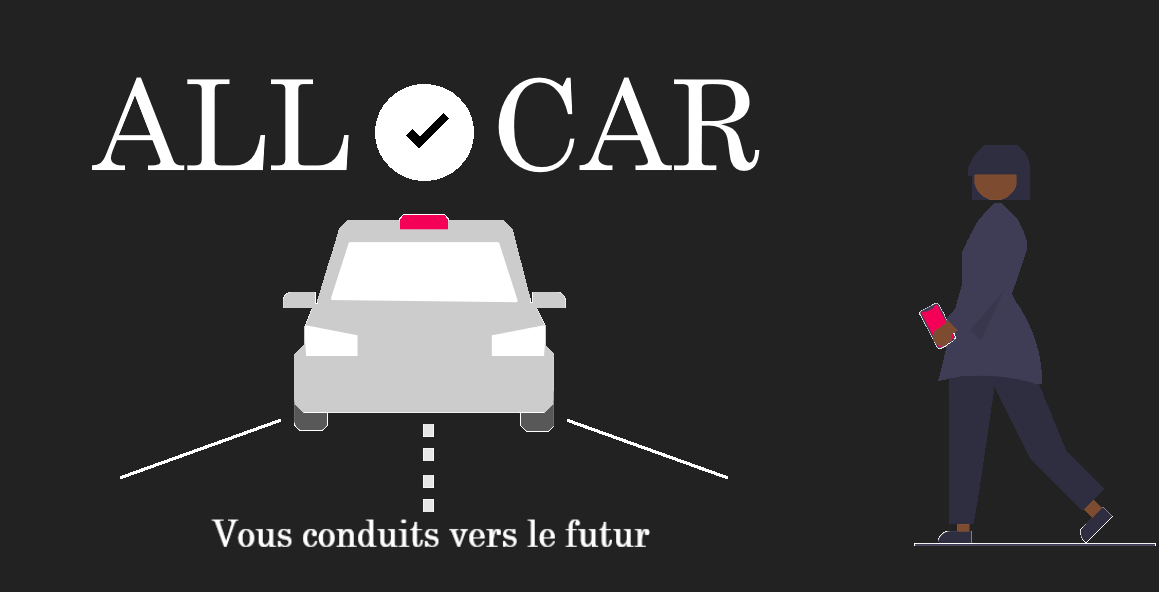
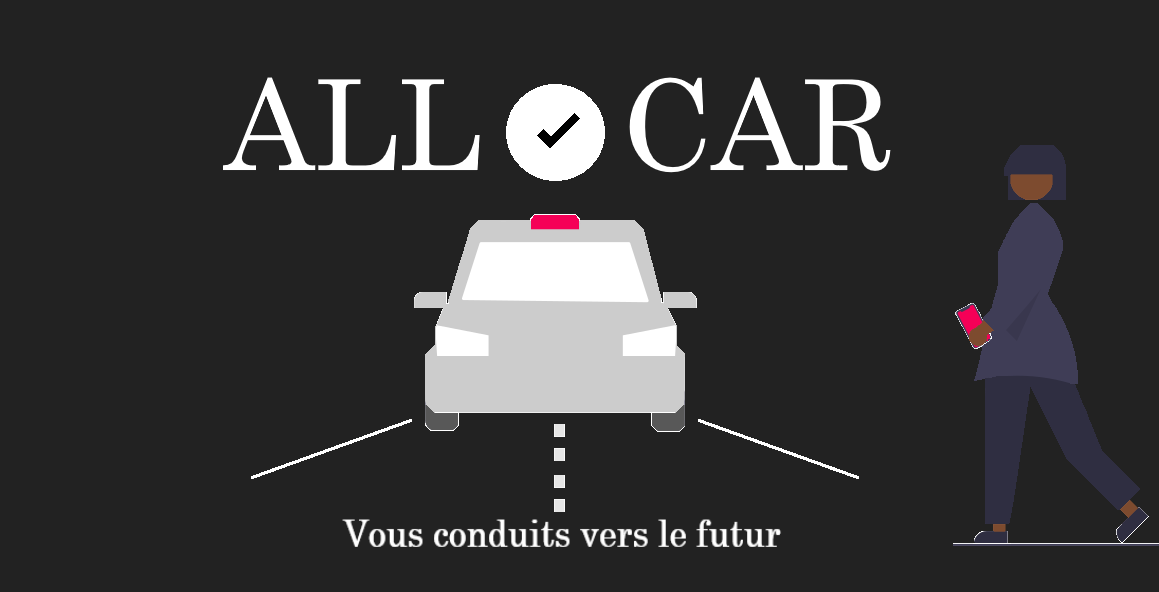
reussi

diff --git a/src/app/connexion/connexion.page.ts b/src/app/connexion/connexion.page.ts
@@ -5,6 +5,8 @@ import { AngularFirestore } from '@angular/fire/firestore';
 import { AngularFireAuth } from '@angular/fire/auth';
 import { Facebook, FacebookLoginResponse } from '@ionic-native/facebook/ngx';
 import * as firebase from 'firebase/app'; import 'firebase/auth';
+declare var FB: any;
+
 
 @Component({
   selector: 'app-connexion',
@@ -66,21 +68,11 @@ export class ConnexionPage implements OnInit {
 
   async loginWithFacebook() {
     try {
-      const accessToken = 'votre_jetoon_dacces_ici';
-      const response: FacebookLoginResponse = await this.fb.login(['public_profile', 'email']);
+      const response = await this.afAuth.signInWithPopup(new firebase.default.auth.FacebookAuthProvider());
 
-      if (response.authResponse) {
-        const credential = firebase.default.auth.FacebookAuthProvider.credential(response.authResponse.accessToken);
-        const result = await this.afAuth.signInWithCredential(credential);
-        const user = result.user;
-        this.firestore.doc('users/' + user!.uid).set({
-          author: user!.uid,
-          photoURL: user!.photoURL,
-          displayName: user!.displayName,
-          email: user!.email,
-          date: new Date().toISOString()
-        });
+      if (response.user) {
         console.log('Connecté avec Facebook !');
+        this.handleSuccessfulLogin(response.user);
       } else {
         console.log('Échec de la connexion Facebook.');
       }
@@ -89,40 +81,74 @@ export class ConnexionPage implements OnInit {
     }
   }
 
+  async handleSuccessfulLogin(user: firebase.default.User | null) {
+    try {
+      if (!user) {
+        throw new Error('Utilisateur non trouvé');
+      }
+
+      // Enregistrer les informations de l'utilisateur dans la base de données Firestore
+      await this.saveUserDataToFirestore(user);
+
+      console.log('Informations de l\'utilisateur enregistrées avec succès dans Firestore.');
+    } catch (error) {
+      console.error('Erreur lors de l\'enregistrement des informations de l\'utilisateur dans Firestore :', error);
+    }
+  }
+
+  async saveUserDataToFirestore(user: firebase.default.User) {
+    try {
+      // Enregistrer les informations de l'utilisateur dans Firestore
+      await this.firestore.doc(`users/${user.uid}`).set({
+        author: user.uid,
+        photoURL: user.photoURL,
+        displayName: user.displayName,
+        email: user.email,
+        date: new Date().toISOString()
+      });
+    } catch (error) {
+      throw error;
+    }
+  }
+
+
+
   async loginWithFacebook2() {
     try {
-      const response: FacebookLoginResponse = await this.fb.login(['public_profile', 'email']);
-  
-      if (response && response.authResponse) {
-        const credential = firebase.default.auth.FacebookAuthProvider.credential(response.authResponse.accessToken);
-        const fbUser = await this.afAuth.signInWithCredential(credential);
-  
-        if (fbUser && fbUser.user) {
-          // Vérifier si l'utilisateur existe dans Firestore
-          const userDoc = await this.firestore.collection('users').doc(fbUser.user.uid).get().toPromise();
-  
-          if (userDoc!.exists) {
-            console.log('Connecté avec Facebook !');
-            // L'utilisateur est enregistré dans Firestore, vous pouvez effectuer d'autres actions ici
-          } else {
-            // L'utilisateur n'existe pas dans Firestore, déconnectez-le et affichez un message d'erreur
-            console.log('Cet utilisateur n\'est pas enregistré.');
-            await this.afAuth.signOut();
-            // Afficher un message à l'utilisateur pour l'inviter à s'inscrire
-            // Par exemple, vous pouvez utiliser un service d'alerte ou un composant d'alerte Ionic
-            this.showErrorMessage('Veuillez vous inscrire pour accéder à la connexion.');
-          }
-        } else {
-          console.log('Erreur lors de l-authentification Facebook : Utilisateur non trouvé');
-        }
+      // Demander à l'utilisateur de se connecter avec Facebook
+      const response = await this.afAuth.signInWithPopup(new firebase.default.auth.FacebookAuthProvider());
+
+      // Vérifier si la connexion a réussi et si un utilisateur est renvoyé
+      if (response.user) {
+        // Utilisateur connecté avec succès, continuer avec les actions nécessaires
+        console.log('Connecté avec Facebook !');
+        await this.handleSuccessfulLogin2(response.user);
       } else {
-        console.log('Authentification Facebook échouée.');
+        // La connexion a échoué ou aucun utilisateur n'a été renvoyé
+        console.log('Échec de la connexion Facebook.');
       }
     } catch (error) {
       console.error('Erreur lors de la connexion Facebook :', error);
     }
   }
 
+  async handleSuccessfulLogin2(user: firebase.default.User) {
+    try {
+      // Vérifier si l'utilisateur existe déjà dans Firestore
+      const userDoc = await this.firestore.collection('users').doc(user.uid).get().toPromise();
+
+      if (userDoc?.exists) {
+        // L'utilisateur existe déjà dans Firestore, effectuer d'autres actions ici
+        console.log('Utilisateur déjà enregistré dans Firestore.');
+      } else {
+        // L'utilisateur n'existe pas dans Firestore, enregistrer les informations dans la base de données
+        await this.saveUserDataToFirestore(user);
+        console.log('Informations de l\'utilisateur enregistrées avec succès dans Firestore.');
+      }
+    } catch (error) {
+      console.error('Erreur lors de la gestion de la connexion réussie :', error);
+    }
+  }
   async signInWithGoogle() {
     try {
       const provider = new firebase.default.auth.GoogleAuthProvider();

diff --git a/src/app/location-et-vente/location-et-vente.page.html b/src/app/location-et-vente/location-et-vente.page.html
@@ -1,4 +1,4 @@
-<ion-header [translucent]="true">
+<ion-header [translucent]="false">
   <ion-toolbar color="dark">
     <ion-title class="ion-text-center">
       Achat/Location
@@ -8,7 +8,8 @@
 
 <ion-content>
     <h1>Bienvenue</h1>
-    <p> Vous vous trouvez dans le service de location et d'achat de véhicules de l'application AlloCars, votre partenaire de confiance pour trouver le véhicule de vos rêves parmi une sélection de qualité provenant de concessionnaires agréés.</p>
+    <p> Vous trouverez des véhicule parmi une sélection de qualité dans le service de location et d'achat provenant de concessionnaires agréés.</p>
+    <br>
     <ion-segment (ionChange)="segmentChanged($event)" value="Acheter un véhicule">
       <ion-segment-button value="Acheter un véhicule">
         <ion-label>Achat</ion-label>
@@ -45,7 +46,7 @@
         <ion-grid>
           <ion-row>
             <ion-col size="6">
-              <h2>marque :</h2>
+              <p>marque :</p>
               <ion-input class="font" type="text" [(ngModel)]="marque"></ion-input>
               <p>modele :</p>
               <ion-input type="text" [(ngModel)]="modele"></ion-input>
@@ -119,7 +120,7 @@
         <ion-grid>
           <ion-row>
             <ion-col size="6">
-              <h2>marque :</h2>
+              <p>marque :</p>
               <ion-input class="font" type="text" [(ngModel)]="marqueLoc"></ion-input>
               <p>modele :</p>
               <ion-input type="text" [(ngModel)]="modeleLoc"></ion-input>

diff --git a/src/index.html b/src/index.html
@@ -17,8 +17,28 @@
   <meta name="viewport" content="viewport-fit=cover, width=device-width, initial-scale=1.0, minimum-scale=1.0, maximum-scale=1.0, user-scalable=no" />
   <meta name="format-detection" content="telephone=no" />
   <meta name="msapplication-tap-highlight" content="no" />
+  <script>
+    window.fbAsyncInit = function() {
+      FB.init({
+        appId      : '587402599103990',
+        cookie     : true,
+        xfbml      : true,
+        version    : 'v12.0'
+      });
+        
+      FB.AppEvents.logPageView();   
+    };
+  
+    (function(d, s, id){
+      var js, fjs = d.getElementsByTagName(s)[0];
+      if (d.getElementById(id)) {return;}
+      js = d.createElement(s); js.id = id;
+      js.src = "https://connect.facebook.net/en_US/sdk.js";
+      fjs.parentNode.insertBefore(js, fjs);
+    }(document, 'script', 'facebook-jssdk'));
+  </script>
 
-  <link rel="icon" type="image/png" href="assets/icon/favicon.png" />
+  <link rel="icon" type="image/png" href="assets/icon/icon.png" />
 
   <!-- add to homescreen for ios -->
   <meta name="apple-mobile-web-app-capable" content="yes" />
@@ -26,7 +46,6 @@
 </head>
 
 <body>
-  <script src="cordova.js"></script>
   <app-root></app-root>
 </body>
 

diff --git a/src/app/phone-number/phone-number.page.html b/src/app/phone-number/phone-number.page.html
@@ -53,6 +53,7 @@
           <ion-button expand="full" color="dark" shape="round" (click)="sendVerificationCode()">
             recevoir le code d'inscription
           </ion-button>
+          <div id="recaptcha-container"></div>
         </ion-col>
       </ion-row>
 
@@ -62,13 +63,11 @@
             <ion-label class="label">Entrer le Code de vérification:</ion-label>
           </ion-col>
           <ion-col size="4">
-            <ion-input type="test" color="black" clearInput placeholder="Notez Ici!" class="input ion-padding-horizontal" clear-input="true" [(ngModel)]="verificationCode"></ion-input>
+            <ion-input type="test" color="black" clearInput class="input ion-padding-horizontal" clear-input="true" [(ngModel)]="verificationCode">Notez Ici!</ion-input>
           </ion-col> 
         </ion-item>
+        <ion-button expand="full" shape="round" color="success" (click)="verifyCode()">Vérifier le code d'inscription</ion-button>
       </ion-row>
-
-      <ion-button expand="full" shape="round" color="success" (click)="verifyCode()">Vérifier le code d'inscription</ion-button>
-      <div id="recaptcha-container"></div>
     </ion-grid>
     <br>
   </ion-card>

diff --git a/src/app/app.component.ts b/src/app/app.component.ts
@@ -38,7 +38,7 @@ export class AppComponent {
     if (this.connected) {
       this.afAuth.signOut().then(() => {
         // Rediriger vers la page de connexion une fois que l'utilisateur est déconnecté
-        this.router.navigateByUrl('/connexion');
+        this.router.navigateByUrl('connexion');
         this.menu.close();
       }).catch(error => {
         // Gérer les erreurs éventuelles ici
@@ -46,7 +46,9 @@ export class AppComponent {
       });
     }
   }
-  retour() {
+  closeMenu() {
+    this.menu.close(); // Ferme le menu
+  }  retour() {
     if (!this.connected) {
       this.menu.close();
       this.router.navigateByUrl('connexion');

diff --git a/src/app/location-et-vente/location-et-vente.page.scss b/src/app/location-et-vente/location-et-vente.page.scss
@@ -78,22 +78,23 @@
 }
 
 h1 {
+  font-family: auto;
   margin-bottom: -15px;    
   margin-top: 0px;    
   font-size: xx-large;    
   font-style: italic;    
   font-weight: 800;  
-  text-align: center;  
+  text-align: start;  
   padding: 9px;
 }
 
 p {
   margin: 1px 0 0;    
   padding: 9px;    
-  font-size: 18px;    
-  text-align: center;    
-  line-height: 1.13;    
+  font-size: 17px;    
+  text-align: start;    
+  line-height: 1.3;    
   word-spacing: -2.4px;    
-  font-weight: 700;    
+  font-weight: 200;    
   font-style: oblique;
 }

diff --git a/src/app/tab1/tab1.page.scss b/src/app/tab1/tab1.page.scss
@@ -14,6 +14,7 @@ ion-content {
   top: 0;
   left: 0;
   margin-bottom: -5px;
+  margin-top: -20px;
   object-fit: cover;
   display: block;
   border-bottom-left-radius: 20px; /* Arrondi le coin inférieur gauche */
@@ -47,7 +48,7 @@ swiper-slide {
 }
 
 .box-title {
-  margin: 10px 0px 5px 5px;
+  margin: 7px 2px 2px 5px;
   font-weight: 720;
   font-size: 20px;
 }
@@ -70,7 +71,7 @@ swiper-slide {
 }
 
 .model p {
-  font-size: 12px;
+  font-size: 13px;
   text-align: center;
   margin: 2px 0px 0px 0px;
   font-weight: 800;

diff --git a/src/app/app.component.html b/src/app/app.component.html
@@ -2,7 +2,12 @@
   <ion-menu color="dark" side="start" menuId="main-menu" contentId="main">
     <ion-header>
       <ion-toolbar color="dark">
-        <ion-title>Menu</ion-title>
+        <ion-buttons slot="start">
+          <ion-button (click)="closeMenu()">
+            <ion-icon slot="icon-only" name="close"></ion-icon>
+          </ion-button>
+        </ion-buttons>
+        <ion-title class="ion-text-center">Menu</ion-title>
       </ion-toolbar>
     </ion-header>
     

diff --git a/src/app/connexion/connexion.page.html b/src/app/connexion/connexion.page.html
@@ -1,6 +1,6 @@
 <ion-header>
   <ion-toolbar>
-    <ion-title class="ion-text-center" >Se connecter/S'inscrire</ion-title>
+    <ion-title class="ion-text-center">Se connecter/S'inscrire</ion-title>
   </ion-toolbar>
 </ion-header>
 
@@ -15,7 +15,7 @@
   </div>
 
   <div class="police2">
-    <p class="ion-text-center">Vous conduit vers le futur</p>
+    <p class="ion-text-center" style="font-size: large;">Vous conduit vers le futur</p>
   </div>
  
 

diff --git a/src/app/tab1/tab1.page.html b/src/app/tab1/tab1.page.html
@@ -1,6 +1,6 @@
-<ion-header [translucent]="true">
+<ion-header color="dark" [translucent]="false">
   <ion-toolbar color="dark">
-    <ion-title class="ion-text-center">
+    <ion-title style="text-align: center;">
       AlloCars
     </ion-title>
     <ion-buttons slot="start">

diff --git a/src/app/tab2/tab2.page.html b/src/app/tab2/tab2.page.html
@@ -1,4 +1,4 @@
-<ion-header [translucent]="true">
+<ion-header [translucent]="false">
   <ion-toolbar color="dark">
     <ion-title class="ion-text-center">
       Service Taxi

diff --git a/src/app/tab3/tab3.page.html b/src/app/tab3/tab3.page.html
@@ -1,4 +1,4 @@
-<ion-header [translucent]="true">
+<ion-header [translucent]="false">
   <ion-toolbar color="dark">
     <ion-title class="ion-text-center">
       Mon Compte
